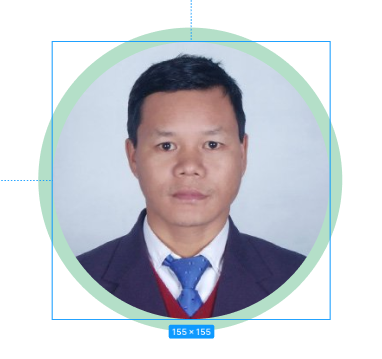
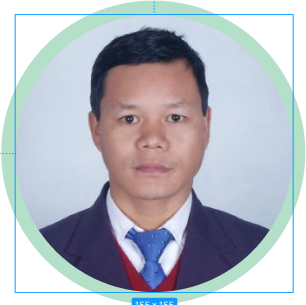
faq responsive

diff --git a/app/components/homepage/Faq.tsx b/app/components/homepage/Faq.tsx
@@ -12,22 +12,23 @@ const Faq = () => {
   return (
     <section className="my-8 ">
       <div className="mx-auto w-[95%] sm:w-[85%] pt-8 2xl:max-w-[1320px]">
-        <h2 className="text-xl font-semibold">
+        
+        <div className="flex flex-wrap xl:justify-between flex-col xl:flex-row"> 
+          <div className="flex flex-col basis-[48%]">
+          <h2 className="text-xl font-semibold">
             Information and Grievance Officers
         </h2>
-        <div className="flex flex-wrap xl:flex-row"> 
-          <div className="flex flex-col">
-            <div className="flex flex-col ">
-              <div className="mt-8 flex flex-col lg:flex-row flex-wrap justify-between rounded border-2 border-[#CCCCCC] pl-4">
-                <img
-                  src={"/images/info-officer.png"}
-                  alt="information officer"
-                  width={100}
-                  height={100}
-                  className="overflow-hidden rounded-full mx-auto"
-                />
-                <div className=" mt-8 ">
-                  <h3 className="text-custom-green text-xl">
+              <div className="mt-8 flex flex-col lg:flex-row flex-wrap justify-between rounded border-2 border-[#CCCCCC] p-8">
+                <div className="basis-1/4 w-full">
+                  <img
+                     src={"/images/info-officer.png"}
+                     alt="information officer"
+                     className="overflow-hidden rounded-full mx-auto"
+                     height="auto"
+                  />
+                </div>
+                <div className="mt-12 ml-12 lg:ml-0 lg:my-auto pl-4 basis-3/4 ">
+                  <h3 className="text-custom-green font-bold text-xl">
                     Information Officer & Spokeperson
                   </h3>
 
@@ -45,28 +46,27 @@ const Faq = () => {
                   </div>
                 </div>
               </div>
-              <div className="mt-8 flex flex-col lg:flex-row flex-wrap justify-between rounded border-2 border-[#CCCCCC] pl-4">
-                <img
-                  src={"/images/grievance.png"}
-                  alt="information officer"
-                  // width={100}
-                  // height={100}
-                  className="overflow-hidden rounded-full mx-auto"
-                />
-                <div className=" mt-8 ">
-                  <h3 className="text-custom-green text-xl">
+              <div className="mt-8 flex flex-col lg:flex-row flex-wrap justify-between rounded border-2 border-[#CCCCCC] p-8">
+                <div className=" basis-1/4 w-full">
+                  <img
+                     src={"/images/grievance.png"}
+                     alt="information officer"
+                     className="overflow-hidden rounded-full mx-auto"
+                     height="auto"
+                  />
+                </div>
+                <div className="my-auto basis-3/4 pl-4">
+                  <h3 className="text-custom-green font-bold text-xl">
                   Grievance Officer
                   </h3>
 
                   <h2 className="text-normal py-2 font-semibold">
                   Mr. Hira Bahadur Ale
                   </h2>
-                  <div className="flex flex-col">
+                  <div className="flex flex-col  ">
+                    <span className="text-slate-500">Mobile: +9779851328566</span>
                     <span className="text-slate-500">
-                      Mobile: +9779851328566
-                    </span>
-                    <span className="text-slate-500">
-                      Email: gunaso@adbl.gov.np
+                    Email: gunaso@adbl.gov.np
                     </span>
                     <span className="text-slate-500">
                       Phone: +977-01-4264016(Office)
@@ -74,9 +74,9 @@ const Faq = () => {
                   </div>
                 </div>
               </div>
-            </div>
+             
           </div>
-          <div className="mt-16">
+          <div className="basis-[48%] mt-12  lg:mt-52 xl:mt-0">
             <h2 className="text-xl font-semibold">
               Frequently Asked Questions
             </h2>
